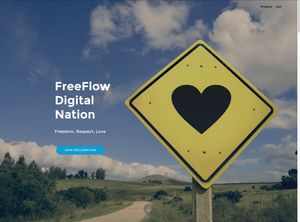
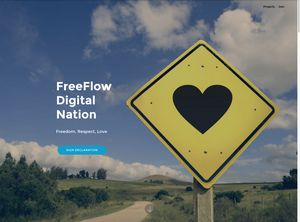
changes for team

diff --git a/index.html b/index.html
@@ -54,7 +54,7 @@
     </nav>
 </section>
 
-<section class="engine"><a href="https://mobirise.info/q">free responsive website templates</a></section><section class="header11 cid-rmGerA9FkM mbr-fullscreen mbr-parallax-background" id="header11-0">
+<section class="engine"><a href="https://mobirise.info/f">simple website builder</a></section><section class="header11 cid-rmGerA9FkM mbr-fullscreen mbr-parallax-background" id="header11-0">
 
     <!-- Block parameters controls (Blue "Gear" panel) -->
     
@@ -314,11 +314,11 @@
 
         <div class="media-container-row mt-5 pt-3">
             <div class="mbr-figure" style="width: 76%;">
-                <a href="https://threefold.io/team/"><img src="assets/images/screenshot-2019-06-01-at-23.04.55-1204x480.png" alt="Mobirise" title=""></a>
+                <a href="https://threefold.io/team/"><img src="assets/images/mbr-1560x1040.jpg" alt="Mobirise" title=""></a>
             </div>
             <div class="tabs-container">
                 <ul class="nav nav-tabs" role="tablist">
-                    <li class="nav-item"><a class="nav-link mbr-fonts-style active show display-5" role="tab" data-toggle="tab" href="#tabs4-o_tab0" aria-selected="true">FOUNDERS</a></li>
+                    <li class="nav-item"><a class="nav-link mbr-fonts-style show active display-5" role="tab" data-toggle="tab" href="#tabs4-o_tab0" aria-selected="true">Founders</a></li>
                     
                     
                     
@@ -329,7 +329,7 @@
                     <div id="tab1" class="tab-pane in active" role="tabpanel">
                         <div class="row">
                             <div class="col-md-12">
-                                <p class="mbr-text py-5 mbr-fonts-style display-7">We are a team of people who are passionate about making the world a better place.</p>
+                                <p class="mbr-text py-5 mbr-fonts-style display-7">We are a team of people who are passionate about making the world a better place.<br><br>Ofcourse left is not our real foto yet, which is coming soon.<br><br>We have a lot in common with these giraffes though, no need to bury our head in the sand. The world needs some help now, and we want to act not talk.</p>
                             </div>
                         </div>
                     </div>
@@ -615,7 +615,7 @@
 
         <div class="media-container-row mt-5 pt-3">
             <div class="mbr-figure" style="width: 60%;">
-                <a href="https://threefold.io/team/" target="_blank"><img src="assets/images/screen-shot-2019-04-15-at-2.08.26-pm-1204x1051.png" alt="Mobirise" title=""></a>
+                <a href="https://threefold.io/team/"><img src="assets/images/mbr-1204x802.jpg" alt="Mobirise" title=""></a>
             </div>
             <div class="tabs-container">
                 <ul class="nav nav-tabs" role="tablist">
@@ -630,7 +630,7 @@
                     <div id="tab1" class="tab-pane in active" role="tabpanel">
                         <div class="row">
                             <div class="col-md-12">
-                                <p class="mbr-text py-5 mbr-fonts-style display-7">FreeFlowNation Ambassadors are people who believe in our values and are supporting us on the journey to a better world. They are proud members of Threefold and FreeFlow Community and all contribute their time and effort.<br><br>Together ambassadors form the essential driving force behind the FreeFlowNation movement.</p>
+                                <p class="mbr-text py-5 mbr-fonts-style display-7">FreeFlowNation Ambassadors are people who believe in our values and are supporting us on the journey to a better world. They are proud members FreeFlow Community and all contribute their time and effort.<br><br>Together ambassadors form the essential driving force behind the FreeFlow movement.<br><br>Let us know if you also want to become an ambassador.<br></p>
                             </div>
                         </div>
                     </div>
@@ -842,5 +842,6 @@
   <script src="assets/theme/js/script.js"></script>
   
   
-</body>
+ <div id="scrollToTop" class="scrollToTop mbr-arrow-up"><a style="text-align: center;"><i class="mbr-arrow-up-icon mbr-arrow-up-icon-cm cm-icon cm-icon-smallarrow-up"></i></a></div>
+  </body>
 </html>

diff --git a/assets/mobirise/css/mbr-additional.css b/assets/mobirise/css/mbr-additional.css
@@ -588,8 +588,8 @@ a:hover {
   color: #dfd9c6;
 }
 /* Scroll to top button*/
-.scrollToTop_wraper {
-  display: none;
+#scrollToTop a {
+  border-radius: 100px;
 }
 #scrollToTop a i:before {
   content: '';
